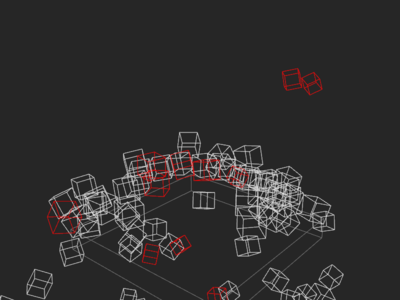
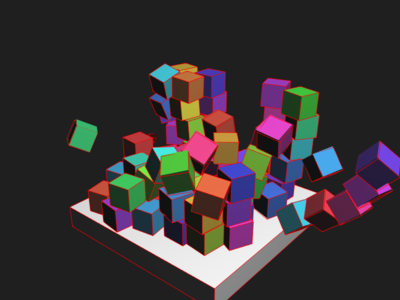
bullet: simplify.
In this case the net amount of lines gets higher, but:

 * No longer using the (silently) deprecated Shapes library.
 * Making an actual use of BulletIntegration::DebugDraw.
 * Making the whole scene more visually pleasing by using solid objects.
 * Ability to toggle the draw mode between solid and wireframe debug (or
   both).
 * Ability to try a different object with different properties for
   shooting.

diff --git a/src/bullet/BulletExample.cpp b/src/bullet/BulletExample.cpp
@@ -29,25 +29,30 @@
 */
 
 #include <btBulletDynamicsCommon.h>
-#include <Magnum/BulletIntegration/ConvertShape.h>
+#include <Corrade/Containers/Optional.h>
+#include <Magnum/Timeline.h>
 #include <Magnum/BulletIntegration/Integration.h>
 #include <Magnum/BulletIntegration/MotionState.h>
+#include <Magnum/BulletIntegration/DebugDraw.h>
 #include <Magnum/GL/DefaultFramebuffer.h>
 #include <Magnum/GL/Mesh.h>
 #include <Magnum/GL/Renderer.h>
 #include <Magnum/Math/Constants.h>
-#include <Magnum/DebugTools/ShapeRenderer.h>
-#include <Magnum/DebugTools/ResourceManager.h>
-#include <Magnum/Shapes/Box.h>
-#include <Magnum/Shapes/Shape.h>
-#include <Magnum/Shapes/ShapeGroup.h>
+#include <Magnum/MeshTools/Compile.h>
+#include <Magnum/MeshTools/Transform.h>
 #include <Magnum/Platform/Sdl2Application.h>
+#include <Magnum/Primitives/Cube.h>
+#include <Magnum/Primitives/UVSphere.h>
 #include <Magnum/SceneGraph/Camera.h>
+#include <Magnum/SceneGraph/Drawable.h>
 #include <Magnum/SceneGraph/MatrixTransformation3D.h>
 #include <Magnum/SceneGraph/Scene.h>
-#include <Magnum/Timeline.h>
+#include <Magnum/Shaders/Phong.h>
+#include <Magnum/Trade/MeshData3D.h>
 
 namespace Magnum { namespace Examples {
+
+using namespace Math::Literals;
 
 typedef SceneGraph::Object<SceneGraph::MatrixTransformation3D> Object3D;
 typedef SceneGraph::Scene<SceneGraph::MatrixTransformation3D> Scene3D;
@@ -57,29 +62,50 @@ class BulletExample: public Platform::Application {
         explicit BulletExample(const Arguments& arguments);
 
     private:
-        void viewportEvent(const Vector2i& size) override;
         void drawEvent() override;
         void keyPressEvent(KeyEvent& event) override;
         void mousePressEvent(MouseEvent& event) override;
 
-        btRigidBody* createRigidBody(Float mass, Object3D& object, btCollisionShape& bShape, ResourceKey renderOptions);
-        void shootBox(Vector3& direction);
+        btRigidBody* createRigidBody(Object3D& object, Float mass, btCollisionShape* bShape);
 
-        DebugTools::ResourceManager _manager;
+        GL::Mesh _box{NoCreate}, _sphere{NoCreate};
+        Shaders::Phong _shader{NoCreate};
+        BulletIntegration::DebugDraw _debugDraw{NoCreate};
+
         Scene3D _scene;
-        SceneGraph::DrawableGroup3D _drawables;
-        Shapes::ShapeGroup3D _shapes;
         SceneGraph::Camera3D* _camera;
+        SceneGraph::DrawableGroup3D _drawables;
         Timeline _timeline;
 
-        Object3D *_cameraRig, *_cameraObject, *_ground;
-        btDiscreteDynamicsWorld* _bWord;
-        btCollisionShape* _bBoxShape;
+        Object3D *_cameraRig, *_cameraObject;
+        btDiscreteDynamicsWorld* _bWorld;
+        btCollisionShape *_bBoxShape, *_bSphereShape;
         btRigidBody* _bGround;
+
+        bool _drawCubes{true}, _drawDebug{true}, _shootBox{true};
+};
+
+class ColoredDrawable: public SceneGraph::Drawable3D {
+    public:
+        explicit ColoredDrawable(Object3D& object, Shaders::Phong& shader, GL::Mesh& mesh, const Color4& color, const Matrix4& primitiveTransformation, SceneGraph::DrawableGroup3D& drawables): SceneGraph::Drawable3D{object, &drawables}, _shader(shader), _mesh(mesh), _color{color}, _primitiveTransformation{primitiveTransformation} {}
+
+    private:
+        void draw(const Matrix4& transformation, SceneGraph::Camera3D& camera) override {
+            _shader.setDiffuseColor(_color)
+                .setTransformationMatrix(transformation*_primitiveTransformation)
+                .setProjectionMatrix(camera.projectionMatrix())
+                .setNormalMatrix(transformation.rotationScaling());
+            _mesh.draw(_shader);
+        }
+
+        Shaders::Phong& _shader;
+        GL::Mesh& _mesh;
+        Color4 _color;
+        Matrix4 _primitiveTransformation;
 };
 
 BulletExample::BulletExample(const Arguments& arguments): Platform::Application(arguments, NoCreate) {
-    /* Try 16x MSAA */
+    /* Try 8x MSAA, fall back to zero samples if not possible */
     Configuration conf;
     conf.setTitle("Magnum Bullet Integration Example");
     GLConfiguration glConf;
@@ -88,49 +114,61 @@ BulletExample::BulletExample(const Arguments& arguments): Platform::Application(
         create(conf, glConf.setSampleCount(0));
 
     /* Camera setup */
-    (_cameraRig = new Object3D(&_scene))
-        ->translate({0.f, 4.f, 0.f});
-    (_cameraObject = new Object3D(_cameraRig))
-        ->translate({0.f, 0.f, 20.f});
+    (*(_cameraRig = new Object3D{&_scene}))
+        .translate(Vector3::yAxis(3.0f))
+        .rotateY(40.0_degf);
+    (*(_cameraObject = new Object3D{_cameraRig}))
+        .translate(Vector3::zAxis(20.0f))
+        .rotateX(-25.0_degf);
     (_camera = new SceneGraph::Camera3D(*_cameraObject))
         ->setAspectRatioPolicy(SceneGraph::AspectRatioPolicy::Extend)
-        .setProjectionMatrix(Matrix4::perspectiveProjection(Deg(35.0f), 1.0f, 0.001f, 100.0f))
+        .setProjectionMatrix(Matrix4::perspectiveProjection(35.0_degf, 1.0f, 0.001f, 100.0f))
         .setViewport(GL::defaultFramebuffer.viewport().size());
 
-    /* Debug draw setup */
-    /** @todo Revert it back to oneliners when setters return rvalue refs properly */
-    auto groundOptions = new DebugTools::ShapeRendererOptions;
-    groundOptions->setColor(Color3(0.45f));
-    auto boxOptions = new DebugTools::ShapeRendererOptions;
-    boxOptions->setColor(Color3(0.85f));
-    auto redBoxOptions = new DebugTools::ShapeRendererOptions;
-    redBoxOptions->setColor({0.9f, 0.0f, 0.0f});
-    _manager.set("ground", groundOptions)
-        .set("box", boxOptions)
-        .set("redbox", redBoxOptions);
+    /* Drawing setup */
+    _box = MeshTools::compile(Primitives::cubeSolid());
+    _sphere = MeshTools::compile(Primitives::uvSphereSolid(16, 32));
+    _shader = Shaders::Phong{};
+    _shader.setAmbientColor(0x111111_rgbf)
+           .setSpecularColor(0x330000_rgbf)
+           .setLightPosition({10.0f, 15.0f, 5.0f});
+    _debugDraw = BulletIntegration::DebugDraw{};
+    _debugDraw.setMode(BulletIntegration::DebugDraw::Mode::DrawWireframe);
+
+    /* Setup the renderer so we can draw the debug lines on top */
+    GL::Renderer::enable(GL::Renderer::Feature::DepthTest);
+    GL::Renderer::enable(GL::Renderer::Feature::FaceCulling);
+    GL::Renderer::enable(GL::Renderer::Feature::PolygonOffsetFill);
+    GL::Renderer::setPolygonOffset(2.0f, 0.5f);
 
     /* Bullet setup */
-    btBroadphaseInterface* broadphase = new btDbvtBroadphase();
-    btDefaultCollisionConfiguration* collisionConfiguration = new btDefaultCollisionConfiguration();
-    btCollisionDispatcher* dispatcher = new btCollisionDispatcher(collisionConfiguration);
-    btSequentialImpulseConstraintSolver* solver = new btSequentialImpulseConstraintSolver;
+    auto* broadphase = new btDbvtBroadphase;
+    auto* collisionConfiguration = new btDefaultCollisionConfiguration;
+    auto* dispatcher = new btCollisionDispatcher{collisionConfiguration};
+    auto* solver = new btSequentialImpulseConstraintSolver;
+    _bWorld = new btDiscreteDynamicsWorld{dispatcher, broadphase, solver, collisionConfiguration};
+    _bWorld->setGravity({0.0f, -10.0f, 0.0f});
+    _bWorld->setDebugDrawer(&_debugDraw);
+    _bBoxShape = new btBoxShape{{0.5f, 0.5f, 0.5f}};
+    _bSphereShape = new btSphereShape{0.25f};
 
-    (_bWord = new btDiscreteDynamicsWorld(dispatcher,broadphase,solver,collisionConfiguration))
-        ->setGravity({0, -10, 0});
+    /* Create the ground */
+    auto* ground = new Object3D{&_scene};
+    _bGround = createRigidBody(*ground, 0.0f, new btBoxShape{{4.0f, 0.5f, 4.0f}});
+    new ColoredDrawable{*ground, _shader, _box, 0xffffff_rgbf,
+        Matrix4::scaling({4.0f, 0.5f, 4.0f}), _drawables};
 
-    /* Create ground */
-    _ground = new Object3D(&_scene);
-    btCollisionShape* bGroundShape = new btBoxShape({4.f, .5f, 4.f});
-    _bGround = createRigidBody(0.f, *_ground, *bGroundShape, "ground");
-
-    /* Create boxes */
-    _bBoxShape = new btBoxShape({.5f, .5f, .5f});
-    for(Int i = 0; i < 5; i++) {
-        for(Int j = 0; j < 5; j++) {
-            for(Int k = 0; k < 5; k++) {
-                Object3D* box = new Object3D(&_scene);
-                box->translate({i - 2.f, j + 4.f, k - 2.f});
-                createRigidBody(1.f, *box, *_bBoxShape, "box");
+    /* Create boxes with random colors */
+    Deg hue = 42.0_degf;
+    for(Int i = 0; i != 5; ++i) {
+        for(Int j = 0; j != 5; ++j) {
+            for(Int k = 0; k != 5; ++k) {
+                auto* o = new Object3D{&_scene};
+                o->translate({i - 2.0f, j + 4.0f, k - 2.0f});
+                new ColoredDrawable{*o, _shader, _box,
+                    Color3::fromHsv(hue += 137.5_degf, 0.75f, 0.9f),
+                    Matrix4::scaling(Vector3{0.5f}), _drawables};
+                createRigidBody(*o, 1.0f, _bBoxShape);
             }
         }
     }
@@ -139,45 +177,46 @@ BulletExample::BulletExample(const Arguments& arguments): Platform::Application(
     setSwapInterval(1);
     setMinimalLoopPeriod(16);
     _timeline.start();
-
-    redraw();
 }
 
-btRigidBody* BulletExample::createRigidBody(Float mass, Object3D& object, btCollisionShape& bShape, ResourceKey renderOptions) {
-    btVector3 bInertia(0,0,0);
-    if(mass != 0.f)
-        bShape.calculateLocalInertia(mass, bInertia);
+btRigidBody* BulletExample::createRigidBody(Object3D& object, Float mass, btCollisionShape* bShape) {
+    /* Calculate inertia so the object reacts as it should with rotation and
+       everything */
+    btVector3 bInertia(0.0f, 0.0f, 0.0f);
+    if(mass != 0.0f) bShape->calculateLocalInertia(mass, bInertia);
 
     /* Bullet rigid body setup */
-    BulletIntegration::MotionState* motionState = new BulletIntegration::MotionState(object);
-    btRigidBody::btRigidBodyConstructionInfo bRigidBodyCI(mass, &motionState->btMotionState(), &bShape, bInertia);
-    btRigidBody* bRigidBody = new btRigidBody(bRigidBodyCI);
+    auto* motionState = new BulletIntegration::MotionState{object};
+    auto* bRigidBody = new btRigidBody{btRigidBody::btRigidBodyConstructionInfo{
+        mass, &motionState->btMotionState(), bShape, bInertia}};
     bRigidBody->forceActivationState(DISABLE_DEACTIVATION);
-    _bWord->addRigidBody(bRigidBody);
-
-    /* Debug draw */
-    auto shape = BulletIntegration::convertShape(object, bShape, &_shapes);
-    CORRADE_INTERNAL_ASSERT(shape);
-    new DebugTools::ShapeRenderer3D(*shape, renderOptions, &_drawables);
+    _bWorld->addRigidBody(bRigidBody);
 
     return bRigidBody;
 }
 
-void BulletExample::viewportEvent(const Vector2i& size) {
-    GL::defaultFramebuffer.setViewport({{}, size});
-
-    _camera->setViewport(size);
-}
-
 void BulletExample::drawEvent() {
-    GL::defaultFramebuffer.clear(GL::FramebufferClear::Color);
+    GL::defaultFramebuffer.clear(GL::FramebufferClear::Color|GL::FramebufferClear::Depth);
 
     /* Step bullet simulation */
-    _bWord->stepSimulation(_timeline.previousFrameDuration(), 5);
+    _bWorld->stepSimulation(_timeline.previousFrameDuration(), 5);
 
-    /* Update positions and render */
-    _shapes.setClean();
-    _camera->draw(_drawables);
+    /* Draw the cubes */
+    if(_drawCubes) _camera->draw(_drawables);
+
+    /* Debug draw. If drawing on top of cubes, avoid flickering by setting
+       depth function to <= instead of just <. */
+    if(_drawDebug) {
+        if(_drawCubes)
+            GL::Renderer::setDepthFunction(GL::Renderer::DepthFunction::LessOrEqual);
+
+        _debugDraw.setTransformationProjectionMatrix(
+            _camera->projectionMatrix()*_camera->cameraMatrix());
+        _bWorld->debugDrawWorld();
+
+        if(_drawCubes)
+            GL::Renderer::setDepthFunction(GL::Renderer::DepthFunction::Less);
+    }
 
     swapBuffers();
     _timeline.nextFrame();
@@ -185,33 +224,56 @@ void BulletExample::drawEvent() {
 }
 
 void BulletExample::keyPressEvent(KeyEvent& event) {
-    if(event.key() == KeyEvent::Key::Down)
-        _cameraObject->rotateX(Deg(5.0f));
-    else if(event.key() == KeyEvent::Key::Up)
-        _cameraObject->rotateX(Deg(-5.0f));
-    else if(event.key() == KeyEvent::Key::Left)
-        _cameraRig->rotateY(Deg(-5.0f));
-    else if(event.key() == KeyEvent::Key::Right)
-        _cameraRig->rotateY(Deg(5.0f));
-    else return;
+    /* Movement */
+    if(event.key() == KeyEvent::Key::Down) {
+        _cameraObject->rotateX(5.0_degf);
+    } else if(event.key() == KeyEvent::Key::Up) {
+        _cameraObject->rotateX(-5.0_degf);
+    } else if(event.key() == KeyEvent::Key::Left) {
+        _cameraRig->rotateY(-5.0_degf);
+    } else if(event.key() == KeyEvent::Key::Right) {
+        _cameraRig->rotateY(5.0_degf);
+
+    /* Toggling draw modes */
+    } else if(event.key() == KeyEvent::Key::D) {
+        if(_drawCubes && _drawDebug) {
+            _drawDebug = false;
+        } else if(_drawCubes && !_drawDebug) {
+            _drawCubes = false;
+            _drawDebug = true;
+        } else if(!_drawCubes && _drawDebug) {
+            _drawCubes = true;
+            _drawDebug = true;
+        }
+
+    /* What to shoot */
+    } else if(event.key() == KeyEvent::Key::S) {
+        _shootBox ^= true;
+    } else return;
 
     event.setAccepted();
 }
 
 void BulletExample::mousePressEvent(MouseEvent& event) {
+    /* Shoot an object on click */
     if(event.button() == MouseEvent::Button::Left) {
-        Vector2 clickPoint = Vector2::yScale(-1.0f)*(Vector2(event.position())/Vector2(GL::defaultFramebuffer.viewport().size())-Vector2(0.5f))* _camera->projectionSize();
-        Vector3 direction = (_cameraObject->absoluteTransformation().rotationScaling() * Vector3(clickPoint, -1.f)).normalized();
-        shootBox(direction);
+        const Vector2 clickPoint = Vector2::yScale(-1.0f)*(Vector2{event.position()}/Vector2{GL::defaultFramebuffer.viewport().size()} - Vector2{0.5f})* _camera->projectionSize();
+        const Vector3 direction = (_cameraObject->absoluteTransformation().rotationScaling()*Vector3{clickPoint, -1.0f}).normalized();
+
+        Object3D* o = new Object3D(&_scene);
+        o->translate(_cameraObject->absoluteTransformation().translation());
+
+        /* Create either a box or a sphere */
+        new ColoredDrawable{*o, _shader, _shootBox ? _box : _sphere,
+            _shootBox ? 0x880000_rgbf : 0x220000_rgbf,
+            Matrix4::scaling(Vector3{_shootBox ? 0.5f : 0.25f}), _drawables};
+        createRigidBody(*o,
+            _shootBox ? 1.0f : 5.0f,
+            _shootBox ? _bBoxShape : _bSphereShape)
+                ->setLinearVelocity(btVector3{direction*25.f});
+
         event.setAccepted();
     }
-}
-
-void BulletExample::shootBox(Vector3& dir) {
-    Object3D* box = new Object3D(&_scene);
-    box->translate(_cameraObject->absoluteTransformation().translation());
-
-    createRigidBody(1.f, *box, *_bBoxShape, "redbox")->setLinearVelocity(btVector3(dir*50.f));
 }
 
 }}
